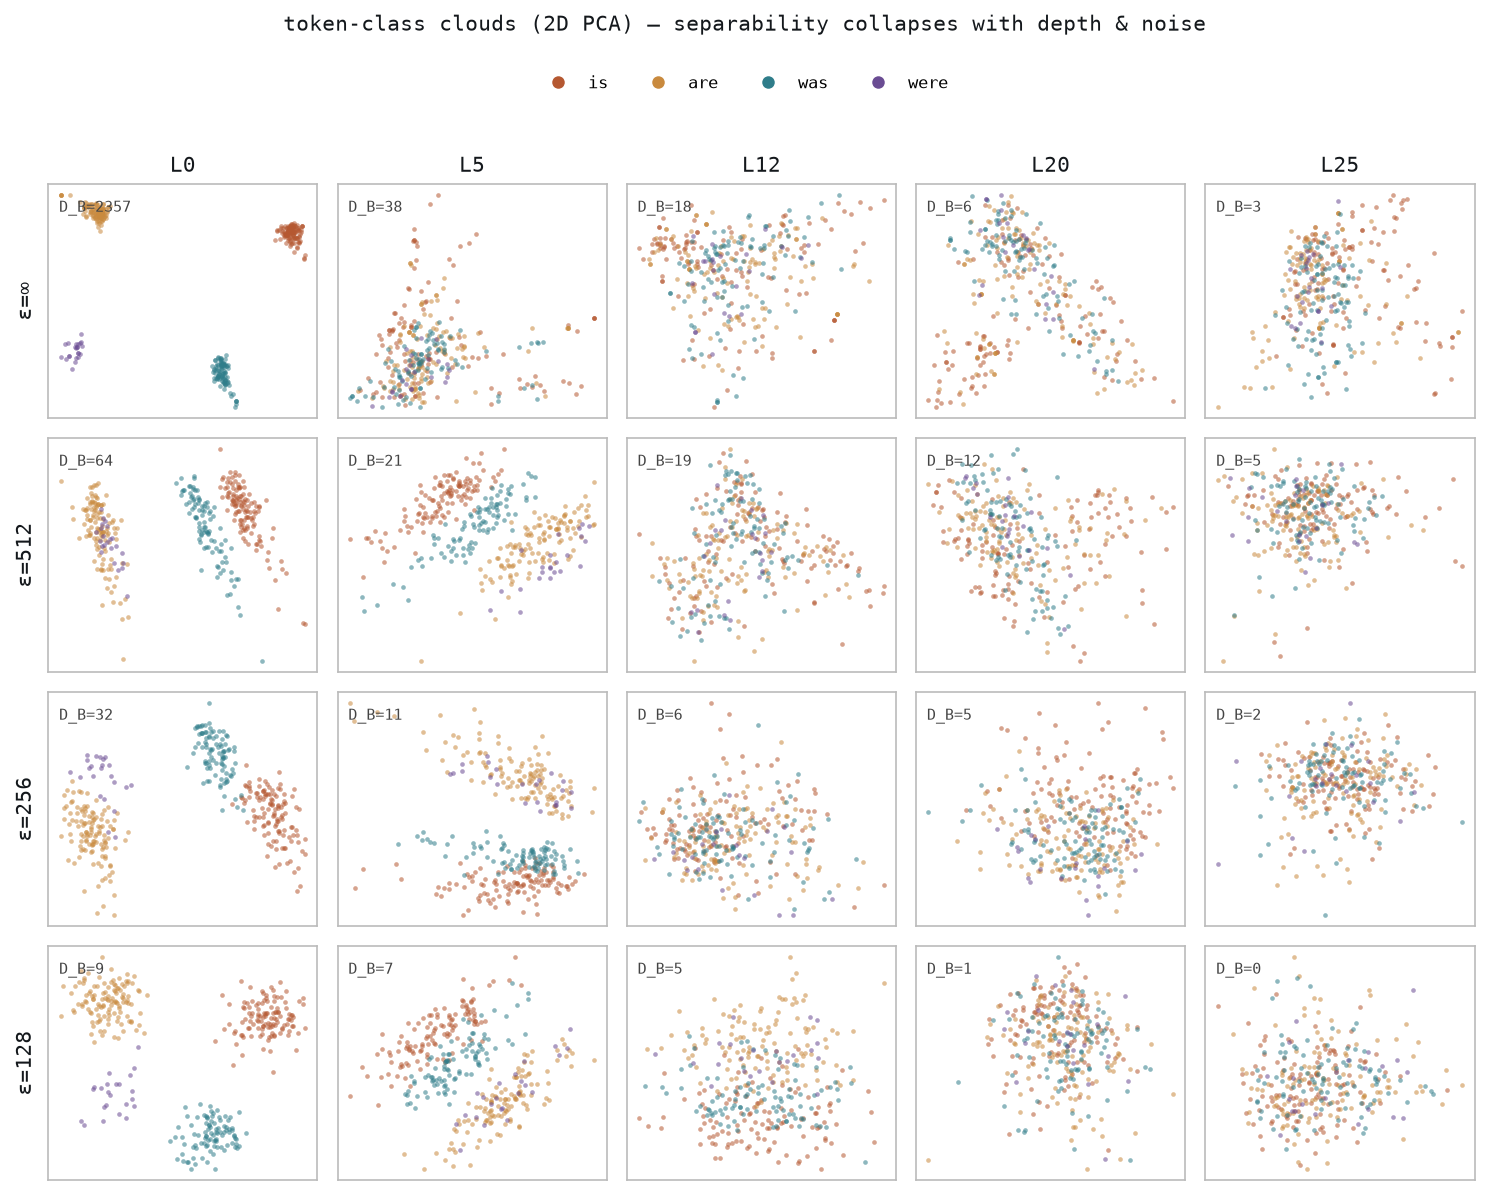
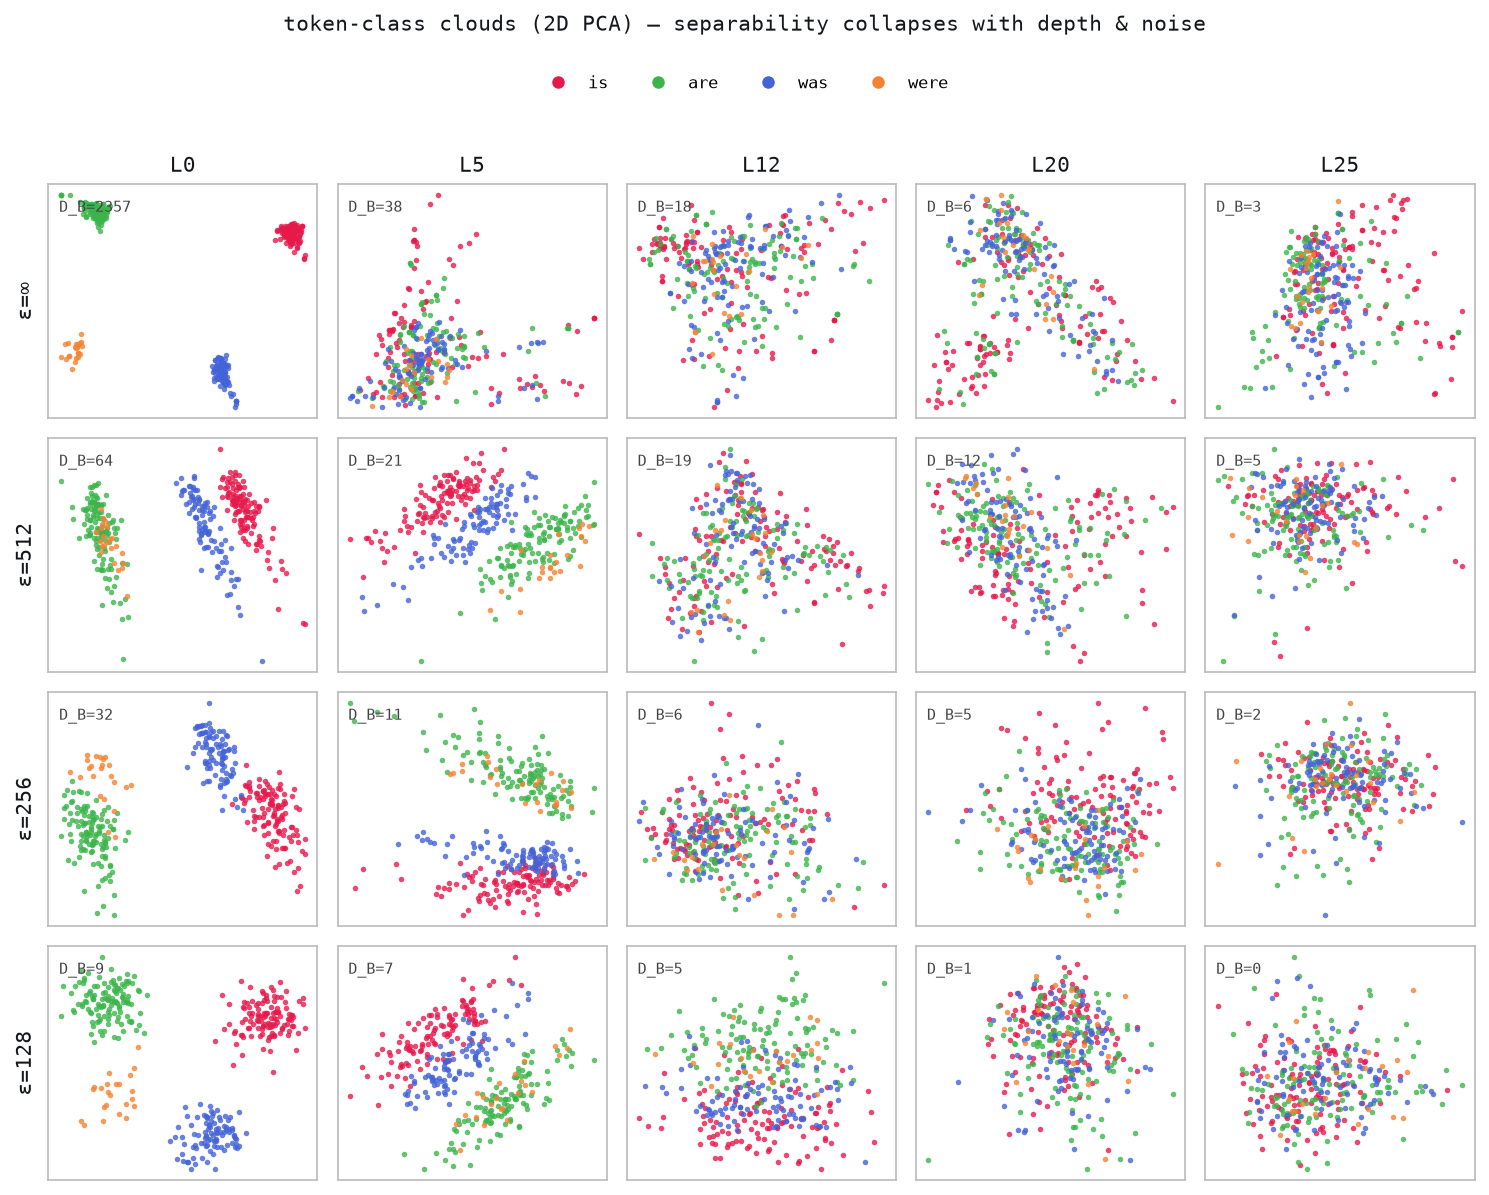
style(figs): vibrant class palette for separability cloud grid

diff --git a/scripts/figs/sep_separability_fig.py b/scripts/figs/sep_separability_fig.py
@@ -28,7 +28,7 @@ import matplotlib
 matplotlib.use("Agg")
 import matplotlib.pyplot as plt  # noqa: E402
 
-CLASS_COLOR = {"is": "#b55831", "are": "#c98a3e", "was": "#2f7d8a", "were": "#6a4c93"}
+CLASS_COLOR = {"is": "#e6194b", "are": "#3cb44b", "was": "#4363d8", "were": "#f58231"}
 EPS_COLOR = {"∞": "#1b1f24", "512": "#2f7d8a", "256": "#c98a3e", "128": "#b55831", "1024": "#6a4c93"}
 INK = "#14181c"
 
@@ -63,7 +63,7 @@ def cloud_grid(cells, layers, eps_rows, out_path):
                     xs = [p[0] for p in co if p[2] == lab]
                     ys = [p[1] for p in co if p[2] == lab]
                     if xs:
-                        ax.scatter(xs, ys, s=5, c=c, alpha=0.55, linewidths=0, label=lab)
+                        ax.scatter(xs, ys, s=7, c=c, alpha=0.8, linewidths=0, label=lab)
                 marg = rec.get("sep_bhat_dist")
                 ax.text(0.04, 0.93, f"D_B={marg:.0f}" if marg is not None else "", transform=ax.transAxes,
                         fontsize=7, va="top", color="#444")